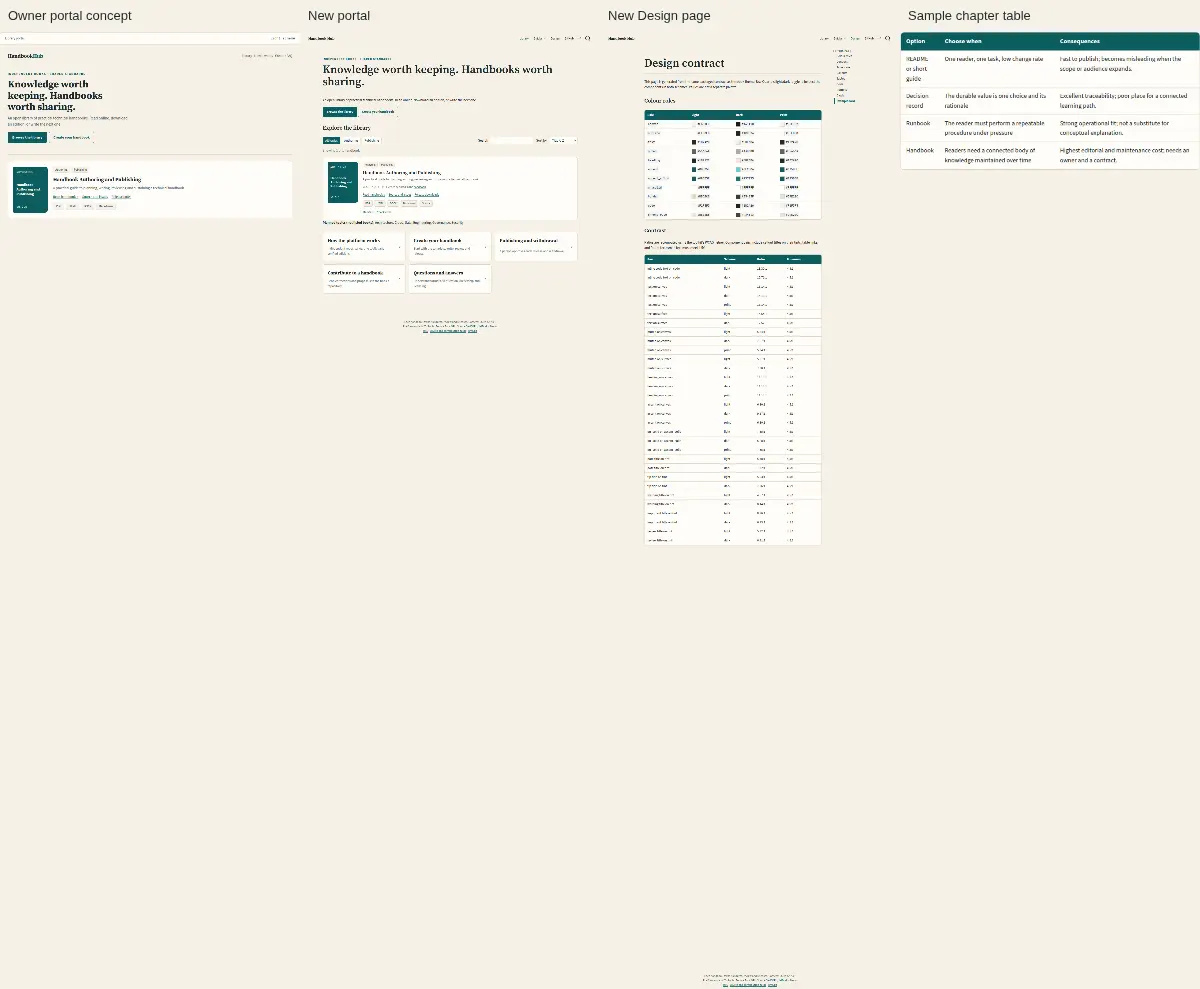
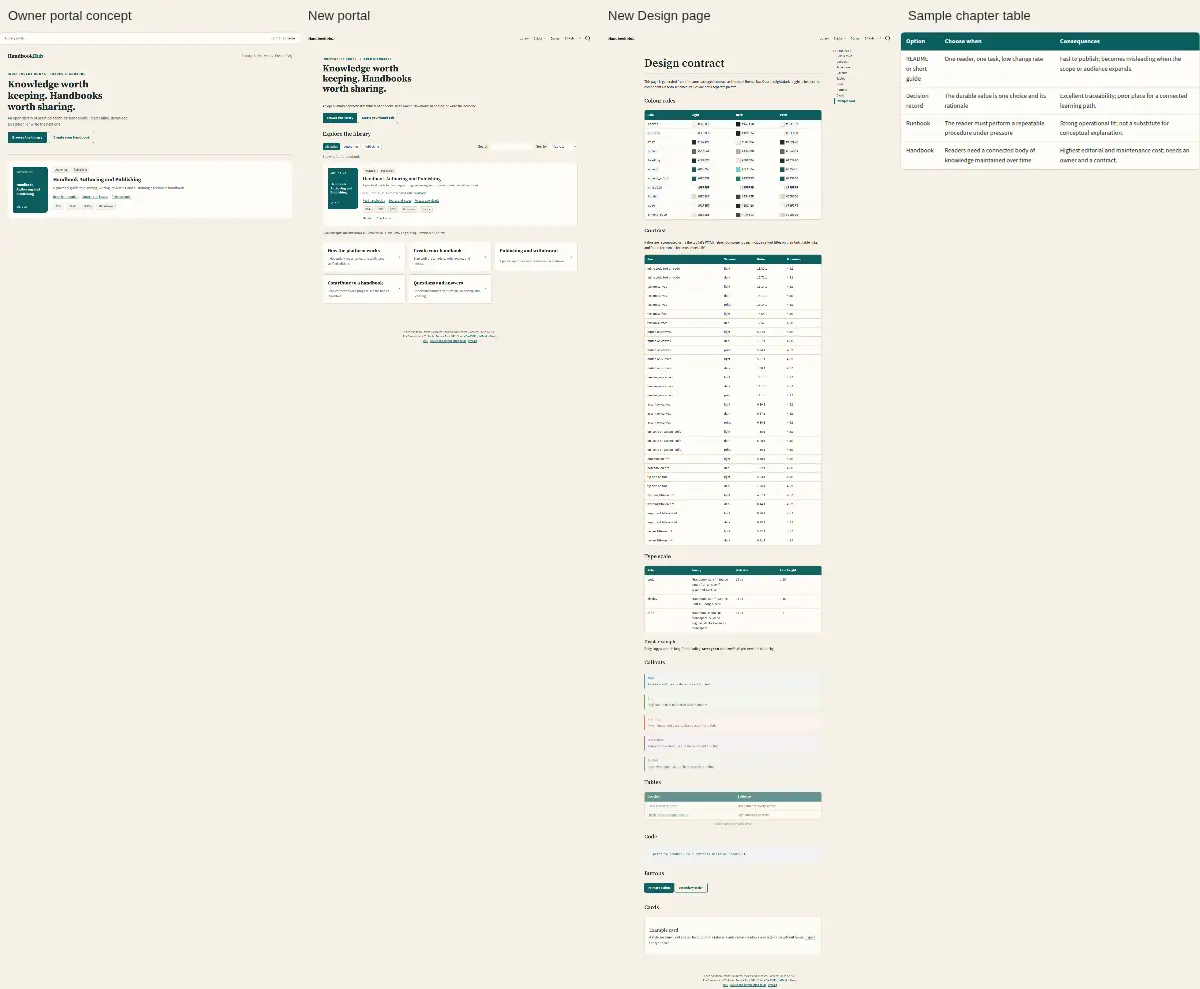
fix(design): address preview alignment review findings

diff --git a/tools/src/handbook_toolkit/render_data/portal/portal.css b/tools/src/handbook_toolkit/render_data/portal/portal.css
@@ -46,3 +46,11 @@ input, button, select { max-width: 100%; min-width: 0; min-height: {{control}}; 
 
 #title-block-header .quarto-title { display: flex; flex-direction: column; }
 #title-block-header .subtitle { order: -1; }
+
+.planned { margin-block-start: {{gap}}; font-size: var(--web-small-px); }
+.planned p { margin: 0; }
+.portal-home #title-block-header .title {
+  font-size: clamp(var(--web-hero-min-rem), var(--web-hero-fluid-vw), var(--web-hero-max-rem));
+  font-weight: 700;
+  max-width: var(--web-hero-measure-ch);
+}

diff --git a/tools/tests/test_portal.py b/tools/tests/test_portal.py
@@ -260,7 +260,12 @@ class QuartoPortalTests(unittest.TestCase):
                         self.assertEqual(computed('.links a', 'color'), expected_accent)
                         self.assertEqual(computed('body', 'fontSize'), '15px')
                         self.assertEqual(computed('body', 'lineHeight'), '23.25px')
-                        self.assertEqual(computed('h1', 'fontSize'), '48px' if width == 1280 else '32px')
+                        self.assertEqual(computed('h1', 'fontSize'), '40px' if width == 1280 else '28px')
+                        self.assertEqual(computed('h1', 'fontWeight'), '700')
+                        self.assertEqual(computed('.planned', 'fontSize'), '13px')
+                        self.assertEqual(computed('.planned', 'marginTop'), '20px')
+                        gap = page.evaluate('document.querySelector(".planned").getBoundingClientRect().top - document.querySelector("#book-grid").getBoundingClientRect().bottom')
+                        self.assertGreaterEqual(gap, 20)
                         self.assertEqual(computed('.btn', 'fontSize'), '14px')
                         self.assertEqual(computed('.btn', 'borderRadius'), '6px')
                         self.assertEqual(computed('.btn', 'padding'), '10px 16px')
@@ -275,6 +280,7 @@ class QuartoPortalTests(unittest.TestCase):
                         self.assertEqual(computed('.guide-card', 'outlineWidth'), '3px')
                         self.assertEqual(page.locator('link[rel="expect"]').count(), 0)
                         page.goto((self.site / 'design.html').as_uri())
+                        self.assertEqual(computed('h1', 'fontSize'), '48px' if width == 1280 else '32px')
                         cells = page.locator('main table').first.locator('tbody td').all()
                         colors = {cell.evaluate('e=>getComputedStyle(e).backgroundColor') for cell in cells}
                         expected = 'rgb(255, 253, 248)' if scheme == 'light' else 'rgb(28, 37, 38)'

diff --git a/tools/tests/test_design.py b/tools/tests/test_design.py
@@ -68,6 +68,15 @@ class DesignTokenTests(unittest.TestCase):
         self.assertIn("radius: hb-card-radius, clip: true, breakable: true", typst)
         self.assertEqual(design.docx_values()["surface"], tokens["color"]["surface"]["print"])
 
+    def test_print_rules_match_the_light_web_border(self) -> None:
+        expected = self.tokens['color']['border']['light']
+        self.assertEqual(expected, '#DDD3C0')
+        self.assertEqual(self.tokens['color']['border']['print'], expected)
+        self.assertEqual(self.tokens['color']['chrome_rule']['print'], expected)
+        self.assertEqual(design.docx_values()['rule'], expected)
+        self.assertIn('#let hb-border = rgb("' + expected + '")', design.typst_preamble())
+        self.assertIn('#let hb-chrome-rule = rgb("' + expected + '")', design.typst_preamble())
+
     def test_contrast_pairs_cover_every_scheme(self) -> None:
         covered = {scheme for pair in self.tokens["contrast"] for scheme in pair["schemes"]}
         self.assertEqual(covered, set(design.SCHEMES))

diff --git a/tools/src/handbook_toolkit/design.py b/tools/src/handbook_toolkit/design.py
@@ -289,7 +289,7 @@ def css_variables(scheme: str) -> str:
         f"--control-radius: {tokens['radius']['control_px']}px;",
         f"--card-radius: {tokens['radius']['card_px']}px;",
     ]
-    declarations += [f"--web-{name.replace('_', '-')}: {value}{'px' if name.endswith('_px') else 'rem' if name.endswith('_rem') else 'vw' if name.endswith('_vw') else ''};"
+    declarations += [f"--web-{name.replace('_', '-')}: {value}{'px' if name.endswith('_px') else 'rem' if name.endswith('_rem') else 'vw' if name.endswith('_vw') else 'ch' if name.endswith('_ch') else ''};"
                      for name, value in tokens["web"].items()]
     declarations += [f"--{name.replace('_', '-')}: {value}px;"
                      for name, value in tokens["radius"].items() if name not in {"control_px", "card_px"}]

diff --git a/tools/src/handbook_toolkit/portal_markup.py b/tools/src/handbook_toolkit/portal_markup.py
@@ -54,4 +54,6 @@ def library_page(books: list[dict[str, Any]]) -> str:
         content = resource('empty.qmd')
     planned = sorted(CATEGORIES-set(categories))
     note = '**Planned topics (not listed books):** ' + ', '.join(category.title() for category in planned) if planned else ''
+    if note:
+        note = '::: {.planned}\n\n' + note + '\n\n:::'
     return resource('index.qmd').replace('{{library}}', content).replace('{{planned}}', note)

diff --git a/sdd/changes/0046-preview-alignment/evidence.md b/sdd/changes/0046-preview-alignment/evidence.md
@@ -61,7 +61,7 @@ This supports keeping PDF rounding instead of accepting square corners. Word has
 geometry; no unsupported rounding is claimed. Poppler prints `Suspects object is wrong type
 (boolean)` for the standalone Typst probe's PDF metadata but extracts all pages/rows successfully.
 
-## Computed styles
+## Initial computed styles (5ae35ca)
 
 Chromium 148, executable `~/.cache/ms-playwright/chromium-1223/chrome-linux/chrome`, launched with
 `--headless=new --no-sandbox`. Viewports: **1280 × 1000** and **390 × 1000**, both light and dark.
@@ -131,7 +131,7 @@ The served `design-tokens.css`, `handbook.css`, `portal.css` and `reading.css` w
 byte with the current source factories: all matched. Local `site_check` passed for the portal
 (3 pages, 24 assets, all 200) and template book (2 pages, 26 assets, all 200).
 
-## Final stable-source full run
+## Initial stable-source full run (5ae35ca)
 
 `make full PYTHON=.venv/bin/python` ran **432 tests in 339.486 s**: **429 passed, 3 failed**.
 All failures are `test_verify_full`, `test_the_repository_itself_is_current` and
@@ -143,3 +143,50 @@ validators were also run separately: **5 checks / 0 problems** and **7 checks / 
 The coordinator-owned synchronization is the only remaining mechanical repository gate. This is
 not a green full-gate receipt; independent review, Owner preview acceptance and desktop Word
 acceptance remain separate outstanding gates.
+
+## Coordinator review correction evidence
+
+All four findings in the global review of `5ae35ca` were fixed on the same branch. The five
+committed WebP sheets were regenerated; the preceding initial measurements remain historical.
+Current raw captures and SVG/OOXML probes are under `.venv/review77-inspection/`.
+
+| Finding | Measured correction |
+| --- | --- |
+| Print border colors | Both print roles now `#DDD3C0`. Sample DOCX document XML has **650** explicit `w:color="DDD3C0"` attributes and **0** `D9E2EC`. All **389** body-cell bottom borders in **33** data tables are `DDD3C0`. |
+| PDF justification | `par(justify: false)` is scoped to table cells. Sample PDF page **12** was rasterized and visually inspected: “README / or short / guide” is left aligned with natural word spaces; running prose stays justified. |
+| Planned topics | Desktop: **20 px** actual gap from book grid to note, **20 px** top margin, **13 px** font, muted **rgb(85, 102, 106)**. The browser regression checks both themes and widths. |
+| Home hero | At 1280 px: **40 px**, weight **700**, width **476.953125 px**, height **129.5625 px** (three lines). At 390 px: **28 px**, width **333.859375 px**, height **90.703125 px** (three lines). Other page h1 stays **48 / 32 px**. |
+
+The new sample PDF remains **61 pages**; the LibreOffice conversion remains **71 pages**, with the
+inspected DOCX table on page **13**. Poppler's SVG for PDF page 12 reports the actual 0.5 pt table
+strokes and running 0.4 pt furniture as `rgb(86.66687%, 82.745361%, 75.294495%)`, which rounds to
+**rgb(221, 211, 192)**. Token `chrome_rule` is used by web Sass, emitted CSS roles and the Typst
+preamble; print furniture currently consumes `hb-border`, now the same cream color. No other
+print consumer retains the old blue-grey rule token. The reference DOCX was regenerated using
+`tools/scripts/generate_reference_docx.py` and passes its byte-parity test.
+
+Correction builds (all with required tools):
+
+```bash
+.venv/bin/python tools/scripts/generate_reference_docx.py
+.venv/bin/python -m handbook_toolkit.portal catalog/catalog.json --output .venv/review77-portal --engine quarto
+.venv/bin/python tools/scripts/edition_preview.py --template --output .venv/review77-template --require-tools
+.venv/bin/python tools/scripts/edition_preview.py --repo /home/ubuntu/github/handbook-sample-01 --output .venv/review77-sample --require-tools
+.venv/bin/python sdd/changes/0046-preview-alignment/capture.py --output .venv/review77-inspection
+make full PYTHON=.venv/bin/python
+```
+
+The portal, template and sample builds succeeded. Focused design tests: **23 passed in 0.107 s**;
+reference-DOCX tests: **2 passed in 0.121 s**. The standalone full validator reports **7 checks,
+3 currency problems**, exclusively the reserved STATUS statements. The full suite result follows
+below. No STATUS or decisions file was changed.
+
+Both localhost previews are rebuilt again after the correction commit, into
+`.venv/review77-head-portal/` and `.venv/review77-head-template/site/`, and left serving on their
+original ports. The current stylesheets are compared byte-for-byte with the source factories.
+
+Correction full run: **433 tests in 306.515 s; 430 passed, 3 failed**, no errors or skips. The only
+failures remain the CLI full-verification, repository-currency and repository-full wrappers, all
+reporting the same STATUS.md lines 10, 37 and 47. Every browser/layout, print, DOCX, cached-index,
+reference-byte and contrast check passed. The coordinator will synchronize STATUS and add the
+new decision after this push, as directed in the review. The full gate is not claimed green here.

diff --git a/sdd/changes/0046-preview-alignment/record.md b/sdd/changes/0046-preview-alignment/record.md
@@ -19,7 +19,8 @@ Implementer change; a different Reviewer and Owner acceptance are required befor
 The generated Sass defines the body/root scale, heading sizes, button dimensions and radius
 from the token contract. Cosmo also needs `enable-rounded: true`: changing the radius variables
 alone leaves buttons square. Quarto's default root is 17 px; the explicit 16 px root gives the
-preview's 32–48 px responsive page titles and exact 14 px buttons. The palette remains unchanged.
+32–48 px general page titles and exact 14 px buttons. The web palette remains unchanged; the
+coordinator correction aligns the print border and chrome-rule roles to `#DDD3C0`.
 
 Portal book cards use 20 px titles without a heading rule, 14 px muted summaries, 13 px link rows,
 11 px text tags, 12 px edition chips and the asymmetrically rounded cover. Search, sort and topic
@@ -57,3 +58,21 @@ The requested version bump makes three existing toolkit 0.10.4 statements in coo
 that file nor weakened the checker. The coordinator must synchronize its status statements before
 the full repository gate can become green. Owner preview acceptance and independent review remain
 required; the local read-only preview servers are left running.
+
+## Coordinator review corrections
+
+The review of `5ae35ca` identified one Major and three Minor findings. This correction commit
+addresses all four together, with the existing STATUS/decisions write exclusion retained.
+
+1. Print `border` and `chrome_rule` now both use `#DDD3C0`; the packaged reference DOCX was
+   regenerated so its inherited rules agree with direct cell rules. The color-role regression
+   checks both print constants, DOCX values and token validity/contrast.
+2. Typst table-cell paragraphs opt out of justification; the body paragraph rule remains justified.
+3. Planned topics now have a semantic container, a 20 px grid-gap top margin, 13 px text and the
+   muted color. Browser checks verify both the computed margin and the actual card-to-note gap.
+4. Only the home hero uses `clamp(1.75rem, 3.2vw, 2.5rem)`, weight 700 and max-width 22 ch.
+   A page body class scopes it; other page titles retain their existing scale. Browser checks
+   verify the 40/28 px hero and the unchanged 48/32 px Design title at desktop/phone widths.
+
+Updated visual, PDF and DOCX evidence is in evidence.md. The correction can be rolled back as
+one commit without reverting the original implementation or coordinator-owned state changes.

diff --git a/docs/design.md b/docs/design.md
@@ -54,7 +54,7 @@ families: light web, dark web and print.
 | `accent` | `#0B5D5F` | `#6FCFC6` | `#0B5D5F` | Links, active controls and outlines |
 | `accent_solid` | `#0B5D5F` | `#157875` | `#0B5D5F` | Filled surfaces: buttons, covers, table headers |
 | `on_solid` | `#FFFFFF` | `#FFFFFF` | `#FFFFFF` | Text on a filled accent surface |
-| `border` | `#DDD3C0` | `#33403F` | `#D9E2EC` | Rules, dividers and table borders |
+| `border` | `#DDD3C0` | `#33403F` | `#DDD3C0` | Rules, dividers and table borders |
 | `code` | `#F1F3F5` | `#1B2426` | `#F1F3F5` | Code and licence blocks |
 
 Headings use the same near-black as body text on light and print; hierarchy comes from size, weight
@@ -243,3 +243,8 @@ buttons with 10 × 16 px padding, 24 px section headings and a responsive 2–3 
 The `web` token group supplies the shared scale. Portal tags are 11 px, format chips 12 px, card
 titles 20 px and summaries 14 px. Interactive chips remain at least 24 px tall; category tags
 are text labels. Guide links cover each complete card and preserve keyboard focus and hover lift.
+
+The portal home hero has its own token scale, `clamp(1.75rem, 3.2vw, 2.5rem)`, with a 22 ch
+measure and bold weight. Other page titles retain the general 2–3 rem scale. Print border and
+chrome-rule colors both match the light web border, `#DDD3C0`. Table-cell paragraphs are left
+aligned in PDF while running prose remains justified.
